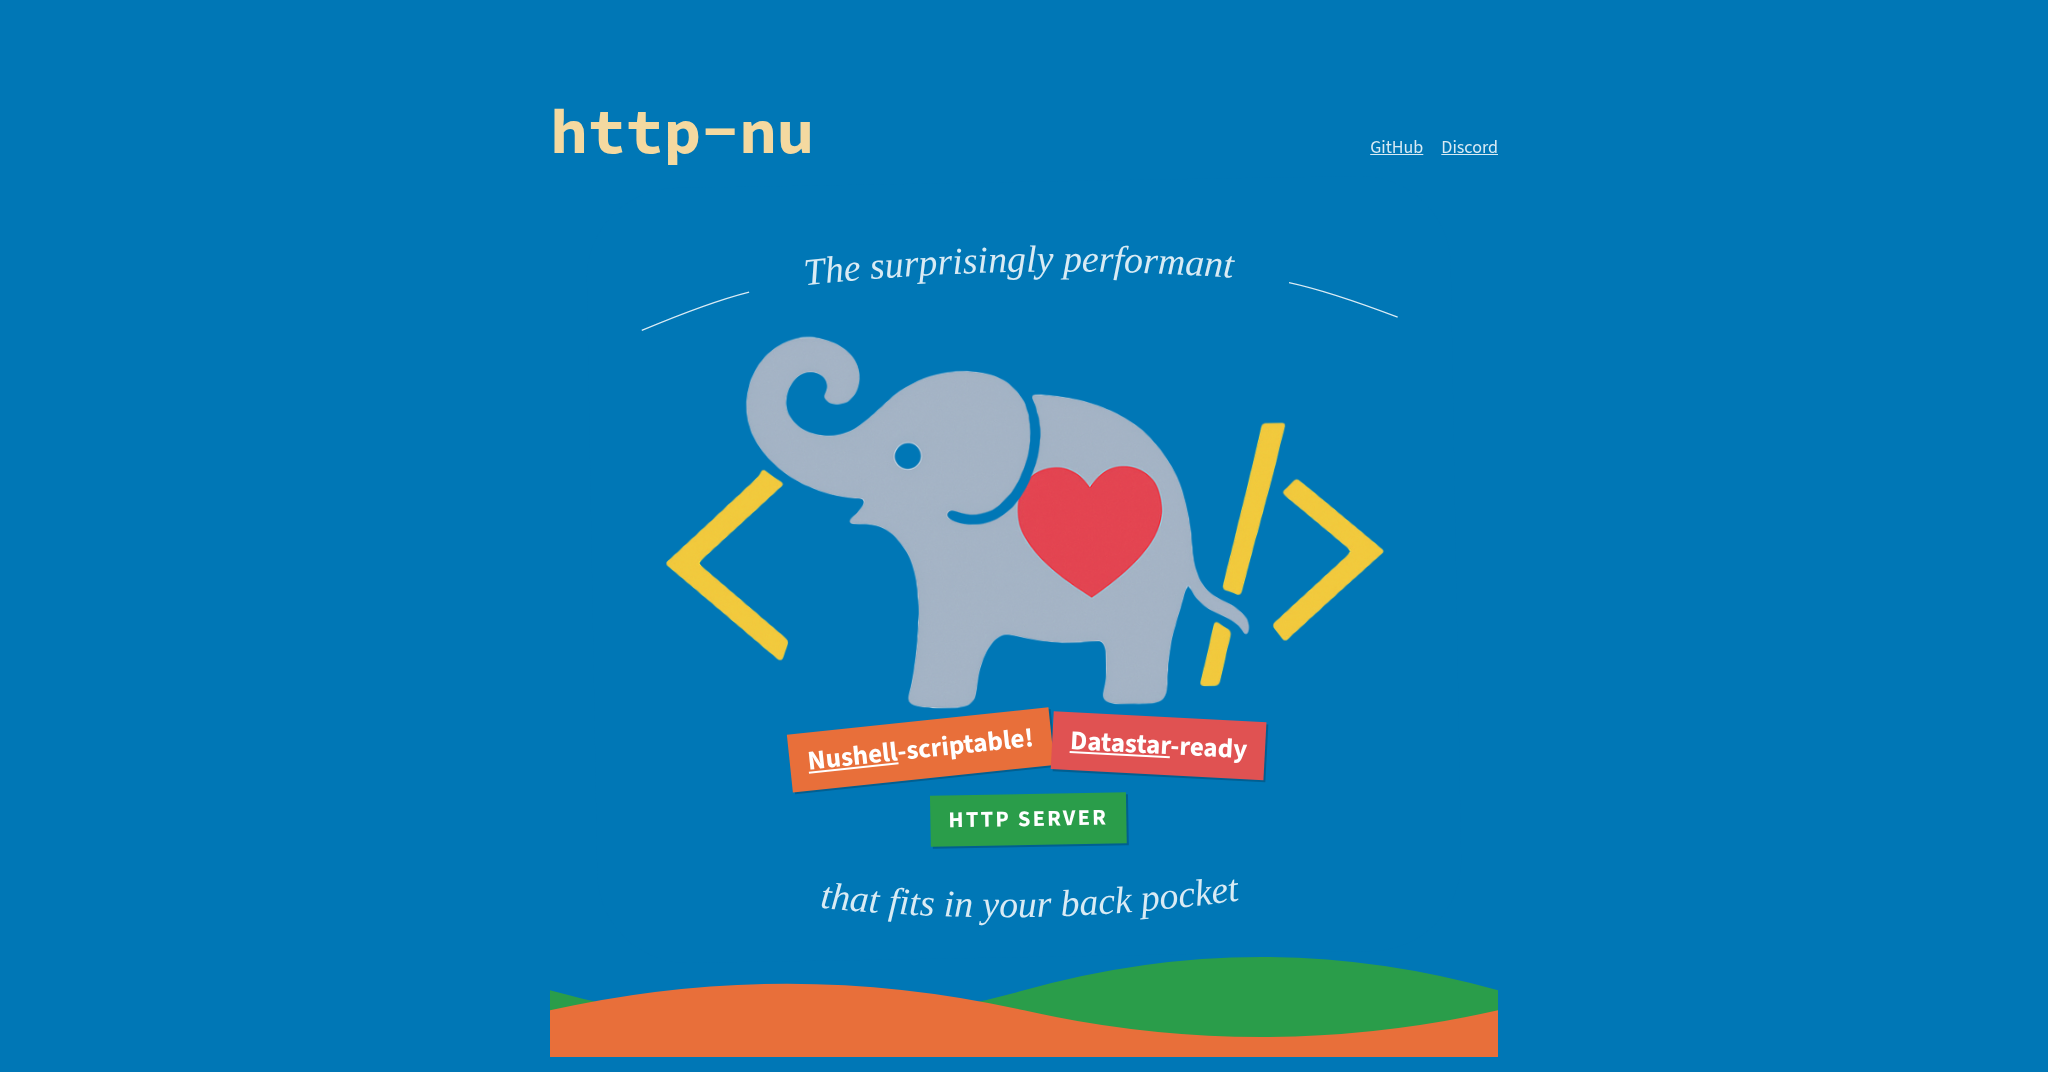
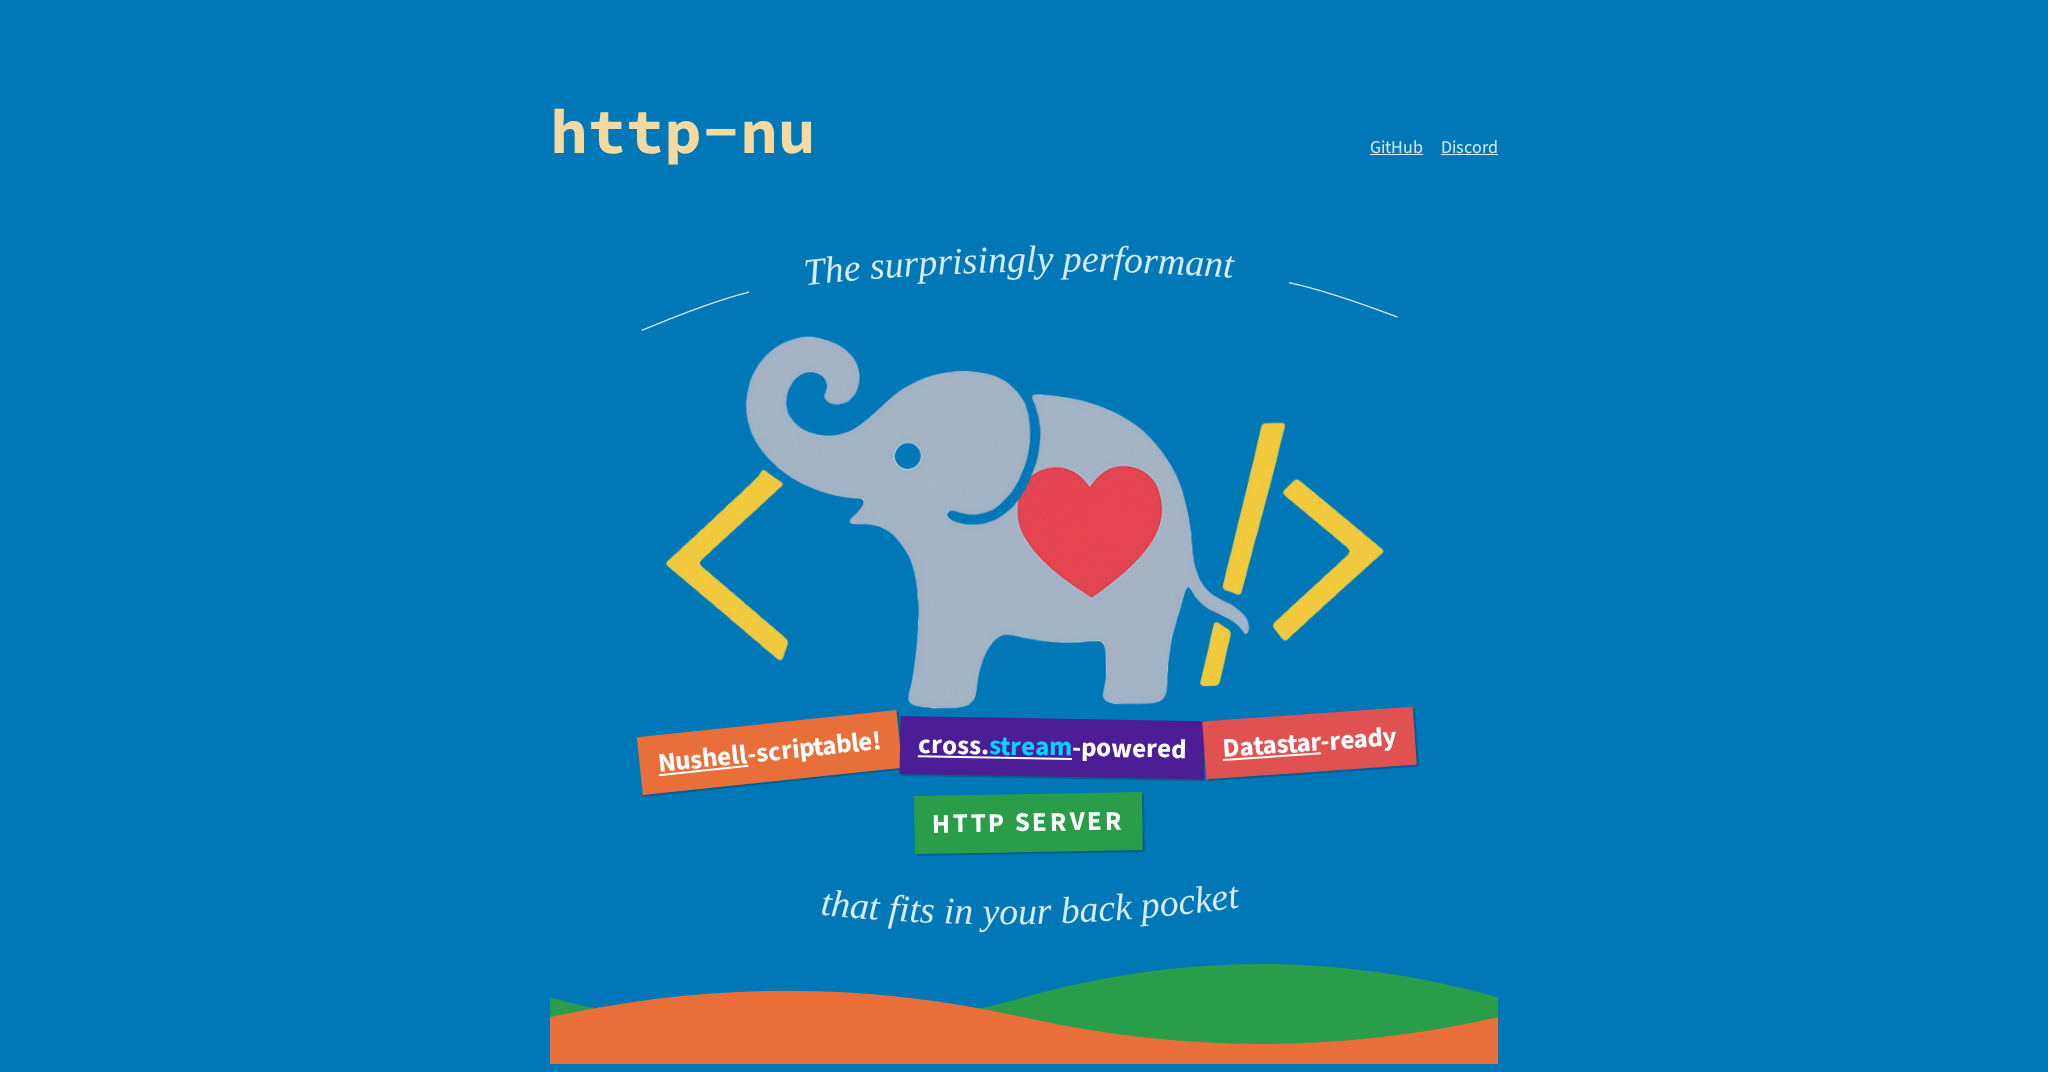
feat: add cross.stream-powered branding

diff --git a/www/assets/core.css b/www/assets/core.css
@@ -21,6 +21,8 @@
   --color-accent-orange: #e86f3a;
   --color-accent-green: #2a9d4a;
   --color-accent-purple: #8b7ab8;
+  --color-accent-purple-dark: #4c1d95;
+  --color-accent-blue-stream: #00d4ff;
   --color-accent-red: #e05252;
 }
 
@@ -434,6 +436,12 @@ code {
 }
 .bg-purple {
   background-color: var(--color-accent-purple);
+}
+.bg-purple-dark {
+  background-color: var(--color-accent-purple-dark);
+}
+.text-stream {
+  color: var(--color-accent-blue-stream);
 }
 .bg-red {
   background-color: var(--color-accent-red);

diff --git a/README.md b/README.md
@@ -8,7 +8,7 @@
   http-nu
 </h1>
   <p align="center">
-    The surprisingly performant, <a href="https://data-star.dev">Datastar</a>-ready, <a href="https://www.nushell.sh">Nushell</a>-scriptable HTTP server that fits in your back pocket.
+    The surprisingly performant, <a href="https://www.nushell.sh">Nushell</a>-scriptable, <a href="https://cross.stream">cross.stream</a>-powered, <a href="https://data-star.dev">Datastar</a>-ready HTTP server that fits in your back pocket.
     <br />
     <a href="#install">Install</a>
     ·
